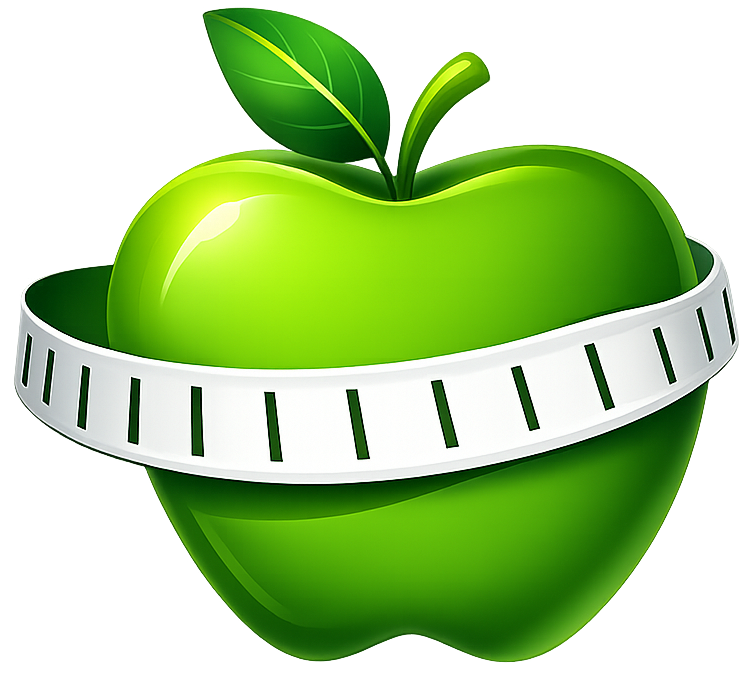
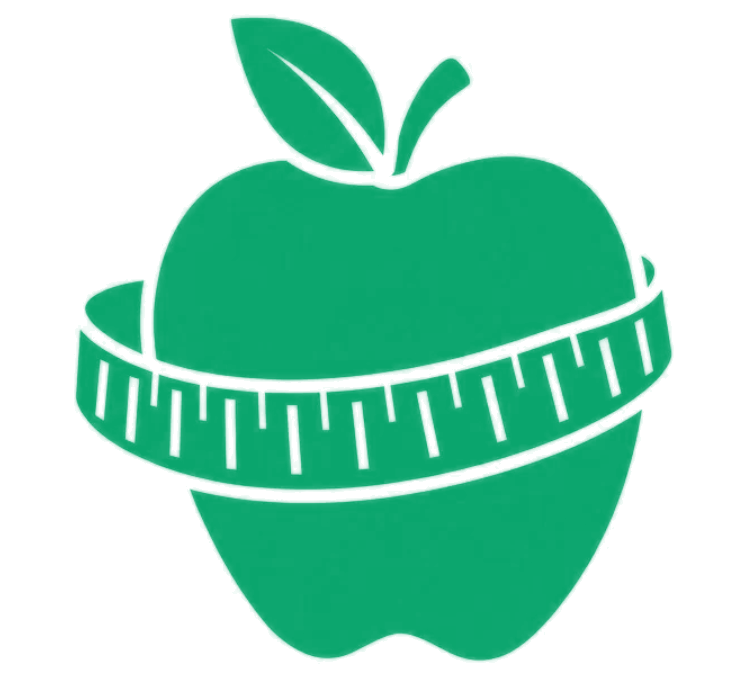
Repaginação da página inicial 3

diff --git a/css/style.css b/css/style.css
@@ -1668,8 +1668,10 @@ body {
 }
 
 /* Botão de Destaque "Entrar em contato" */
+/* Botão "Área do paciente" */
 .btn-entrar-contato {
-  background-color: #0f766e;
+  background-color: #0aa56d;
+  /* Cor principal solicitada */
   color: white;
   padding: 12px 26px;
   border-radius: 30px;
@@ -1677,12 +1679,14 @@ body {
   font-size: 14px;
   font-weight: 600;
   transition: background 0.2s;
-  box-shadow: 0 4px 10px rgba(15, 118, 110, 0.2);
+  box-shadow: 0 4px 10px rgba(10, 165, 109, 0.25);
+  /* Sombra adaptada para o novo verde */
   display: inline-block;
 }
 
 .btn-entrar-contato:hover {
-  background-color: #0b5c54;
+  background-color: #08895c;
+  /* Tom um pouco mais escuro para quando passar o mouse */
 }
 
 /* Responsividade para telas menores */
@@ -2753,16 +2757,16 @@ html {
 /* frase manuscrita no canto superior direito */
 .home-hero-tagline {
   position: absolute;
-  top: 12%;
+  top: 35%;
   /* mantém a mesma altura */
-  left: 56%;
+  left: 60%;
   /* NOVO: posição entre o título e a foto */
   right: auto;
   /* NOVO: no lugar de "right: 4%" */
   z-index: 2;
-  font-family: 'Caveat', cursive;
+  font-family: 'Nothing You Could Do', cursive;
+  font-weight: 400;
   font-size: clamp(1.4rem, 2.5vw, 2.2rem);
-  font-weight: 700;
   line-height: 1.05;
   text-align: right;
   color: #0e7a49;
@@ -2939,11 +2943,9 @@ html {
   .home-hero-tagline {
     top: auto;
     bottom: 160px;
-    left: auto;
-    /* NOVO */
-    right: 6%;
-    transform: rotate(-12deg);
-    /* NOVO */
+    left: 40%;
+    right: auto;
+    transform: translateX(-50%) rotate(-12deg);
   }
 
   .home-cards {

diff --git a/index.html b/index.html
@@ -7,7 +7,7 @@
     <title>Integra Saúde</title>
     <link rel="stylesheet" href="css/style.css">
     <link href="https://fonts.googleapis.com/css2?family=Montserrat:wght@400;600;700&display=swap" rel="stylesheet">
-    <link href="https://fonts.googleapis.com/css2?family=Montserrat:wght@400;600;700&display=swap" rel="stylesheet">
+    <link href="https://fonts.googleapis.com/css2?family=Nothing+You+Could+Do&display=swap" rel="stylesheet">
 </head>
 
 <body>
